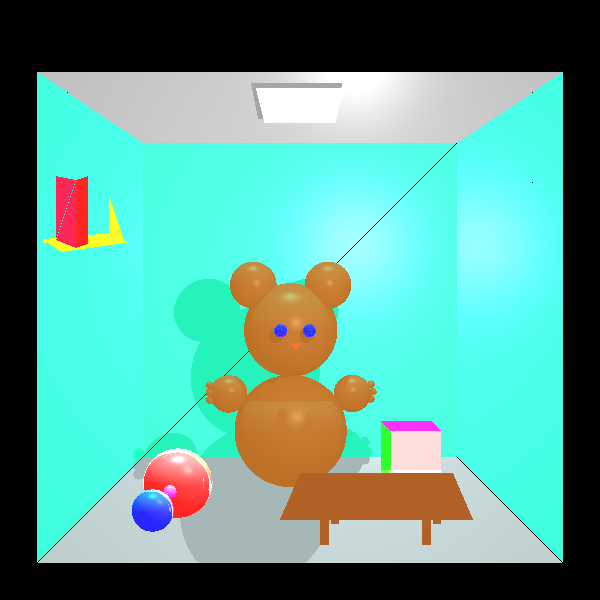
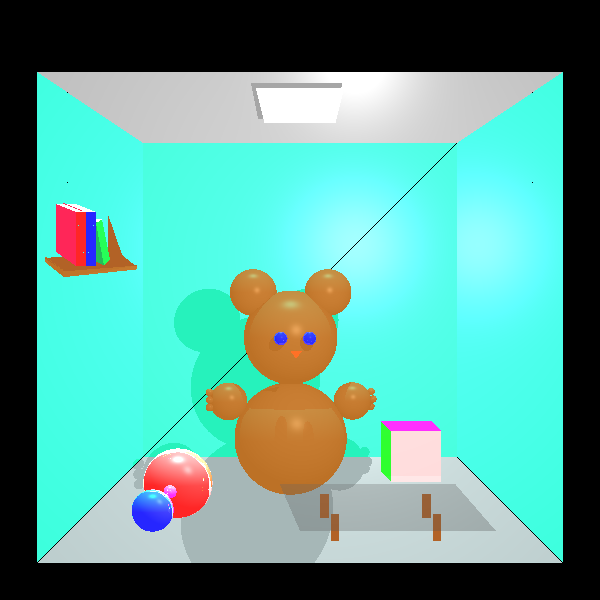
changes image 8

diff --git a/unitTest/images/ourImages.java b/unitTest/images/ourImages.java
@@ -248,50 +248,85 @@ public class ourImages {
 
                 //books on the shelf
                 new Triangle(
-                        new Point(-112, 60, 0),
-                        new Point(-112, 26, 0),
-                        new Point(-106, 28, 0)
+                        new Point(-112, 44, 0),
+                        new Point(-112, 17, 0),
+                        new Point(-107, 17, 0)
                 ).setEmission(new Color(red)),
                 new Triangle(
-                        new Point(-106, 28, 0),
-                        new Point(-112, 60, 0),
-                        new Point(-106, 62, 0)
+                        new Point(-107, 44, 0),
+                        new Point(-112, 44, 0),
+                        new Point(-107, 17, 0)
                 ).setEmission(new Color(red)),
                 new Triangle(
-                        new Point(-112, 60, 0),
-                        new Point(-112, 26, 0),
-                        new Point(-122, 30, 0)
+                        new Point(-112, 44, 0),
+                        new Point(-112, 17, 0),
+                        new Point(-122, 24, 0)
                 ).setEmission(new Color(255, 0, 50)),
                 new Triangle(
-                        new Point(-122, 30, 0),
-                        new Point(-112, 60, 0),
-                        new Point(-122, 62, 0)
+                        new Point(-122, 24, 0),
+                        new Point(-112, 44, 0),
+                        new Point(-122, 48, 0)
                 ).setEmission(new Color(222, 0, 50)),
-//                new Triangle(
-//                        new Point(-105, 55, 0),
-//                        new Point(-105, 30.5, 0),
-//                        new Point(-110, 30.5, 0)
-//                ).setEmission(new Color(blue)),
-//                new Triangle(
-//                        new Point(-105, 55, 0),
-//                        new Point(-110, 55, 0),
-//                        new Point(-110, 30.5, 0)
-//                ).setEmission(new Color(blue)),
-//                new Triangle(
-//                        new Point(-105, 49, 0),
-//                        new Point(-100, 30.5, 0),
-//                        new Point(-100, 50, 0)
-//                ).setEmission(new Color(green)),
-//                new Triangle(
-//                        new Point(-100, 50, 0),
-//                        new Point(-95, 30.5, 0),
-//                        new Point(-100, 30.5, 0)
-//                ).setEmission(new Color(green)),
-//                new Triangle(
-//                        new Point(-100, 50, 0),
-//                        new Point(-95, 30.5, 0),
-//                        new Point(-100, 30.5, 0)
-//                ).setEmission(new Color(green)),
+                new Triangle(
+                        new Point(-107, 44, 0),
+                        new Point(-112, 44, 0),
+                        new Point(-122, 48, 0)
+                ).setEmission(new Color(white)),
+                new Triangle(
+                        new Point(-107, 44, 0),
+                        new Point(-122, 48, 0),
+                        new Point(-118, 48, 0)
+                ).setEmission(new Color(white)),
+                new Triangle(
+                        new Point(-107, 17, 0),
+                        new Point(-102, 17, 0),
+                        new Point(-102, 44, 0)
+                ).setEmission(new Color(blue)),
+                new Triangle(
+                        new Point(-107, 17, 0),
+                        new Point(-107, 44, 0),
+                        new Point(-102, 44, 0)
+                ).setEmission(new Color(blue)),
+                new Triangle(
+                        new Point(-107, 44, 0),
+                        new Point(-102, 44, 0),
+                        new Point(-118, 48, 0)
+                ).setEmission(new Color(white)),
+                new Triangle(
+                        new Point(-102, 44, 0),
+                        new Point(-118, 48, 0),
+                        new Point(-112, 48, 0)
+                ).setEmission(new Color(white)),
+                new Triangle(
+                        new Point(-107, 44, 10),
+                        new Point(-108, 44, 10),
+                        new Point(-118, 48, 10)
+                ).setEmission(new Color(222, 0, 50)),
+                new Triangle(
+                        new Point(-107, 44, 10),
+                        new Point(-117, 48, 10),
+                        new Point(-118, 48, 10)
+                ).setEmission(new Color(222, 0, 50)),
+                new Triangle(
+                        new Point(-97, 17, 10),
+                        new Point(-94, 20, 10),
+                        new Point(-98, 40, 10)
+                ).setEmission(new Color(0,255,50)),
+                new Triangle(
+                        new Point(-97, 17, 10),
+                        new Point(-101, 38, 10),
+                        new Point(-98, 40, 10)
+                ).setEmission(new Color(0,255,50)),
+                new Triangle(
+                        new Point(-101, 40, 10),
+                        new Point(-101, 19, 10),
+                        new Point(-97, 17, 10)
+                ).setEmission(new Color(0,150,50)),
+                new Triangle(
+                        new Point(-101, 38, 10),
+                        new Point(-101, 40, 10),
+                        new Point(-98, 40, 10)
+                ).setEmission(new Color(white)),
 
 
                 //box on the floor
@@ -315,6 +350,7 @@ public class ourImages {
                         new Point(40, -60, 10)
                 ).setEmission(new Color(green))
                         .setMaterial(new Material().setKd(0.1).setKs(0.2).setShininess(30).setKr(0.3)),
+
 
                 new Triangle(
                         new Point(45, -90, 10),
@@ -340,139 +376,159 @@ public class ourImages {
 
 
                 // head
-                new Sphere(new Point(-5, -16, -70), 25d).setEmission(new Color(150, 75, 0))
+                new Sphere(new Point(-5, -20, -70), 25d).setEmission(new Color(150, 75, 0))
                         .setMaterial(new Material().setKd(0.1).setKs(0.2).setShininess(30)),
 
                 //ears
-                new Sphere(new Point(15, 8, -70), 12.5).setEmission(new Color(150, 75, 0))
+                new Sphere(new Point(15, 4, -70), 12.5).setEmission(new Color(150, 75, 0))
                         .setMaterial(new Material().setKd(0.1).setKs(0.2).setShininess(30)),
-                new Sphere(new Point(-25, 8, -70), 12.5).setEmission(new Color(150, 75, 0))
+                new Sphere(new Point(-25, 4, -70), 12.5).setEmission(new Color(150, 75, 0))
                         .setMaterial(new Material().setKd(0.1).setKs(0.2).setShininess(30)),
 
                 //belly
-                new Sphere(new Point(-5, -70, -70), 30).setEmission(new Color(150, 75, 0))
+                new Sphere(new Point(-5, -74, -70), 30).setEmission(new Color(150, 75, 0))
                         .setMaterial(new Material().setKd(0.1).setKs(0.2).setShininess(30)),
 
                 //hands + fingers
                 //right hand
-                new Sphere(new Point(28, -50, -70), 10).setEmission(new Color(150, 75, 0))
+                new Sphere(new Point(28, -54, -70), 10).setEmission(new Color(150, 75, 0))
                         .setMaterial(new Material().setKd(0.1).setKs(0.2).setShininess(30)),
                 //left hand
-                new Sphere(new Point(-38, -50, -65), 10).setEmission(new Color(150, 75, 0))
+                new Sphere(new Point(-38, -54, -65), 10).setEmission(new Color(150, 75, 0))
                         .setMaterial(new Material().setKd(0.1).setKs(0.2).setShininess(30)),
                 //right fingers
-                new Sphere(new Point(39, -49, -70), 2).setEmission(new Color(150, 75, 0))
+                new Sphere(new Point(39, -53, -70), 2).setEmission(new Color(150, 75, 0))
                         .setMaterial(new Material().setKd(0.1).setKs(0.2).setShininess(30)),
-                new Sphere(new Point(38, -45, -70), 2).setEmission(new Color(150, 75, 0))
+                new Sphere(new Point(38, -49, -70), 2).setEmission(new Color(150, 75, 0))
                         .setMaterial(new Material().setKd(0.1).setKs(0.2).setShininess(30)),
-                new Sphere(new Point(38, -53, -72), 2).setEmission(new Color(150, 75, 0))
+                new Sphere(new Point(38, -57, -72), 2).setEmission(new Color(150, 75, 0))
                         .setMaterial(new Material().setKd(0.1).setKs(0.2).setShininess(30)),
                 //left fingers
+                new Sphere(new Point(-48, -53, -60), 2).setEmission(new Color(150, 75, 0))
+                        .setMaterial(new Material().setKd(0.1).setKs(0.2).setShininess(30)),
                 new Sphere(new Point(-48, -49, -60), 2).setEmission(new Color(150, 75, 0))
                         .setMaterial(new Material().setKd(0.1).setKs(0.2).setShininess(30)),
-                new Sphere(new Point(-48, -45, -60), 2).setEmission(new Color(150, 75, 0))
-                        .setMaterial(new Material().setKd(0.1).setKs(0.2).setShininess(30)),
-                new Sphere(new Point(-48, -53, -60), 2).setEmission(new Color(150, 75, 0))
+                new Sphere(new Point(-48, -57, -60), 2).setEmission(new Color(150, 75, 0))
                         .setMaterial(new Material().setKd(0.1).setKs(0.2).setShininess(30)),
 
 
                 //eyes
-                new Sphere(new Point(-10, -16, -40d), 3.5).setEmission(new Color(0, 0, 255))
+                new Sphere(new Point(-10, -20, -40d), 3.5).setEmission(new Color(0, 0, 255))
                         .setMaterial(new Material().setKd(0.1).setKs(0.2).setShininess(30).setKr(0.3)),
-                new Sphere(new Point(5, -16, -40d), 3.5).setEmission(new Color(0, 0, 255))
+                new Sphere(new Point(5, -20, -40d), 3.5).setEmission(new Color(0, 0, 255))
                         .setMaterial(new Material().setKd(0.1).setKs(0.2).setShininess(30).setKr(0.3)),
 
                 //nose
                 new Triangle(
-                        new Point(-5, -22, -20),
-                        new Point(1, -22, -20),
-                        new Point(-2, -26, -20)).
+                        new Point(-5, -26, -20),
+                        new Point(1, -26, -20),
+                        new Point(-2, -30, -20)).
                         setEmission(new Color(250, 75, 0)),
 
 
                 //shelf -etagere ???
                 new Triangle(
-                        new Point(-100, 35, -50),
-                        new Point(-100, 33, -50),
-                        new Point(-135, 30, -50)).setEmission(new Color(yellow)),
+                        new Point(-95, 25, -50),
+                        new Point(-85, 17, -45),
+                        new Point(-135, 22, -50)).setEmission(tableColor)
+                        ,
                 new Triangle(
-                        new Point(-135, 30, -50),
-                        new Point(-100, 35, -50),
-                        new Point(-135, 32, -50)).setEmission(new Color(yellow)),
-                new Triangle(
-                        new Point(-100, 35, -50),
-                        new Point(-90, 30, -45),
-                        new Point(-135, 32, -50)).setEmission(new Color(yellow)),
-                new Triangle(
-                        new Point(-90, 30, -45),
-                        new Point(-125, 25, -45),
-                        new Point(-135, 32, -50)).setEmission(new Color(yellow)),
+                        new Point(-85, 18, -45),
+                        new Point(-123, 15, -45),
+                        new Point(-134, 22, -50)).setEmission(tableColor),
 
                 new Triangle(
-                        new Point(-100, 30, -45),
-                        new Point(-100, 55, -45),
-                        new Point(-92, 30, -50)).setEmission(new Color(yellow)),
+                        new Point(-100, 24, -40),
+                        new Point(-100, 45, -40),
+                        new Point(-92, 22, -40)).setEmission(tableColor),
+
+                new Triangle(
+                        new Point(-85, 18, -45),
+                        new Point(-124, 15, -45),
+                        new Point(-124, 12, -50))
+                        .setEmission(new Color(150, 75, 0))
+                          .setMaterial(new Material().setKd(0.1).setKs(0.1).setShininess(10)),
+
+                new Triangle(
+                        new Point(-85, 18, -45),
+                        new Point(-85, 16, -45),
+                        new Point(-124, 12, -50))
+                        .setEmission(new Color(150, 75, 0))
+                        .setMaterial(new Material().setKd(0.1).setKs(0.1).setShininess(10)),
+
+                new Triangle(
+                        new Point(-134, 23, -50),
+                        new Point(-124, 16, -45),
+                        new Point(-124, 12, -50))
+                        .setEmission(new Color(150, 75, 0))
+                        .setMaterial(new Material().setKd(0.1).setKs(0.1).setShininess(10)),
+
+                new Triangle(
+                        new Point(-134, 23, -50),
+                        new Point(-134, 20, -50),
+                        new Point(-124, 12, -50))
+                        .setEmission(new Color(150, 75, 0))
+                        .setMaterial(new Material().setKd(0.1).setKs(0.1).setShininess(10)),
 
 
                 //the table
                 //right foot front
                 new Triangle(
-                        new Point(60, -120, 20),
-                        new Point(64, -120, 20),
-                        new Point(64, -100, 20)
+                        new Point(65, -118, 20),
+                        new Point(69, -118, 20),
+                        new Point(69, -105, 20)
                 ).setEmission(tableColor),
                 new Triangle(
-                        new Point(60, -120, 20),
-                        new Point(60, -100, 20),
-                        new Point(64, -100, 20)
+                        new Point(65, -118, 20),
+                        new Point(65, -105, 20),
+                        new Point(69, -105, 20)
                 ).setEmission(tableColor),
                 //left foot front
                 new Triangle(
-                        new Point(10, -120, 20),
-                        new Point(14, -120, 20),
-                        new Point(14, -100, 20)
+                        new Point(15, -118, 20),
+                        new Point(19, -118, 20),
+                        new Point(19, -105, 20)
                 ).setEmission(tableColor),
                 new Triangle(
-                        new Point(10, -120, 20),
-                        new Point(10, -100, 20),
-                        new Point(14, -100, 20)
+                        new Point(15, -118, 20),
+                        new Point(15, -105, 20),
+                        new Point(19, -105, 20)
                 ).setEmission(tableColor),
                 //right foot in the back
                 new Triangle(
-                        new Point(65, -110, 20),
-                        new Point(69, -110, 20),
-                        new Point(69, -98, 20)
+                        new Point(60, -107, 20),
+                        new Point(64, -107, 20),
+                        new Point(64, -95, 20)
                 ).setEmission(tableColor),
                 new Triangle(
-                        new Point(65, -110, 20),
-                        new Point(65, -98, 20),
-                        new Point(69, -98, 20)
+                        new Point(60, -107, 20),
+                        new Point(60, -95, 20),
+                        new Point(64, -95, 20)
                 ).setEmission(tableColor),
                 //left foot in the back
                 new Triangle(
-                        new Point(15, -110, 20),
-                        new Point(19, -110, 20),
-                        new Point(19, -98, 20)
+                        new Point(10, -107, 20),
+                        new Point(14, -107, 20),
+                        new Point(14, -95, 20)
                 ).setEmission(tableColor),
                 new Triangle(
-                        new Point(15, -110, 20),
-                        new Point(15, -98, 20),
-                        new Point(19, -98, 20)
+                        new Point(10, -107, 20),
+                        new Point(10, -95, 20),
+                        new Point(14, -95, 20)
                 ).setEmission(tableColor),
                 //the plate
                 new Triangle(
-                        new Point(-10, -108, 20),
-                        new Point(75, -85, 20),
-                        new Point(0, -85, 20)
-                ).setEmission(tableColor)
-                        .setMaterial(new Material().setKd(0.01).setKs(0.5).setKr(1).setShininess(30)),
+                        new Point(0, -112, 30),
+                        new Point(75, -89, 30),
+                        new Point(-10, -89, 30)
+                ).setEmission(new Color(black))
+                        .setMaterial(new Material().setkT(0.7).setKr(0.8).setKr(0.2).setKd(0.3).setShininess(30)),
                 new Triangle(
-                        new Point(-10, -108, 20),
-                        new Point(75, -85, 20),
-                        new Point(85, -108, 20)
-                ).setEmission(tableColor)
-                        .setMaterial(new Material().setKd(0.01).setKs(0.5).setKr(1).setShininess(30)),
-
+                        new Point(0, -112, 30),
+                        new Point(75, -89, 30),
+                        new Point(95, -112, 30)
+                ).setEmission(new Color(black))
+                        .setMaterial(new Material().setkT(0.7).setKr(0.8).setKr(0.2).setKd(0.3).setShininess(30)),
                 //balls
                 new Sphere(new Point(-60, -90, 17), 17d) //
                         .setEmission(new Color(red)) //
